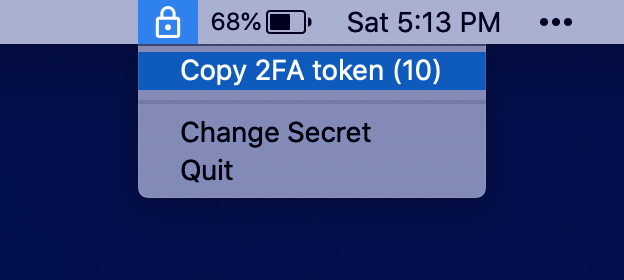
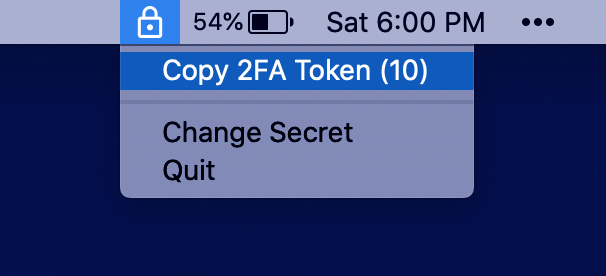
Created README.md

diff --git a/Menu Bar 2FA/AppDelegate.swift b/Menu Bar 2FA/AppDelegate.swift
@@ -32,7 +32,7 @@ class AppDelegate: NSObject, NSApplicationDelegate {
         statusBarItem.menu = statusBarMenu
 
         statusBarMenu.addItem(
-            withTitle: "Copy 2FA token",
+            withTitle: "Copy 2FA Token",
             action: #selector(AppDelegate.copyToken),
             keyEquivalent: "")
 
@@ -68,7 +68,7 @@ class AppDelegate: NSObject, NSApplicationDelegate {
         let calendar = NSCalendar.current
         let components = calendar.dateComponents([.second], from: Date())
         let remaining = 30 - components.second! % 30
-        statusBarItem.menu?.item(at: 0)?.title = "Copy 2FA token (" + String(remaining) + ")"
+        statusBarItem.menu?.item(at: 0)?.title = "Copy 2FA Token (" + String(remaining) + ")"
     }
 
     @objc func copyToken() {

diff --git a/README.md b/README.md
@@ -1,0 +1,12 @@
+## Menu Bar 2FA
+
+This is a simple MacOS app I made to practice Swift. It lives in the MacOS menu bar and copies TOTP codes to the clipboard when clicked. At the moment it only supports a single 2FA account at a time, but that could change in a future release. TOTP secrets are stored in the keychain.
+
+## Screenshots
+
+<img src="Screenshots/copy.png" width="400">
+<img src="Screenshots/prompt.png" width="400">
+
+## Download
+
+The compiled version of this app can be downloaded from the [releases page](https://github.com/scottmangiapane/menu-bar-2fa/releases). It is not notarized so you will have to allow execution in `System Preferences > Security & Privacy > General`. If you want it to start automatically on login, you can do so in `System Preferences > Users & Groups > Login Items`.
